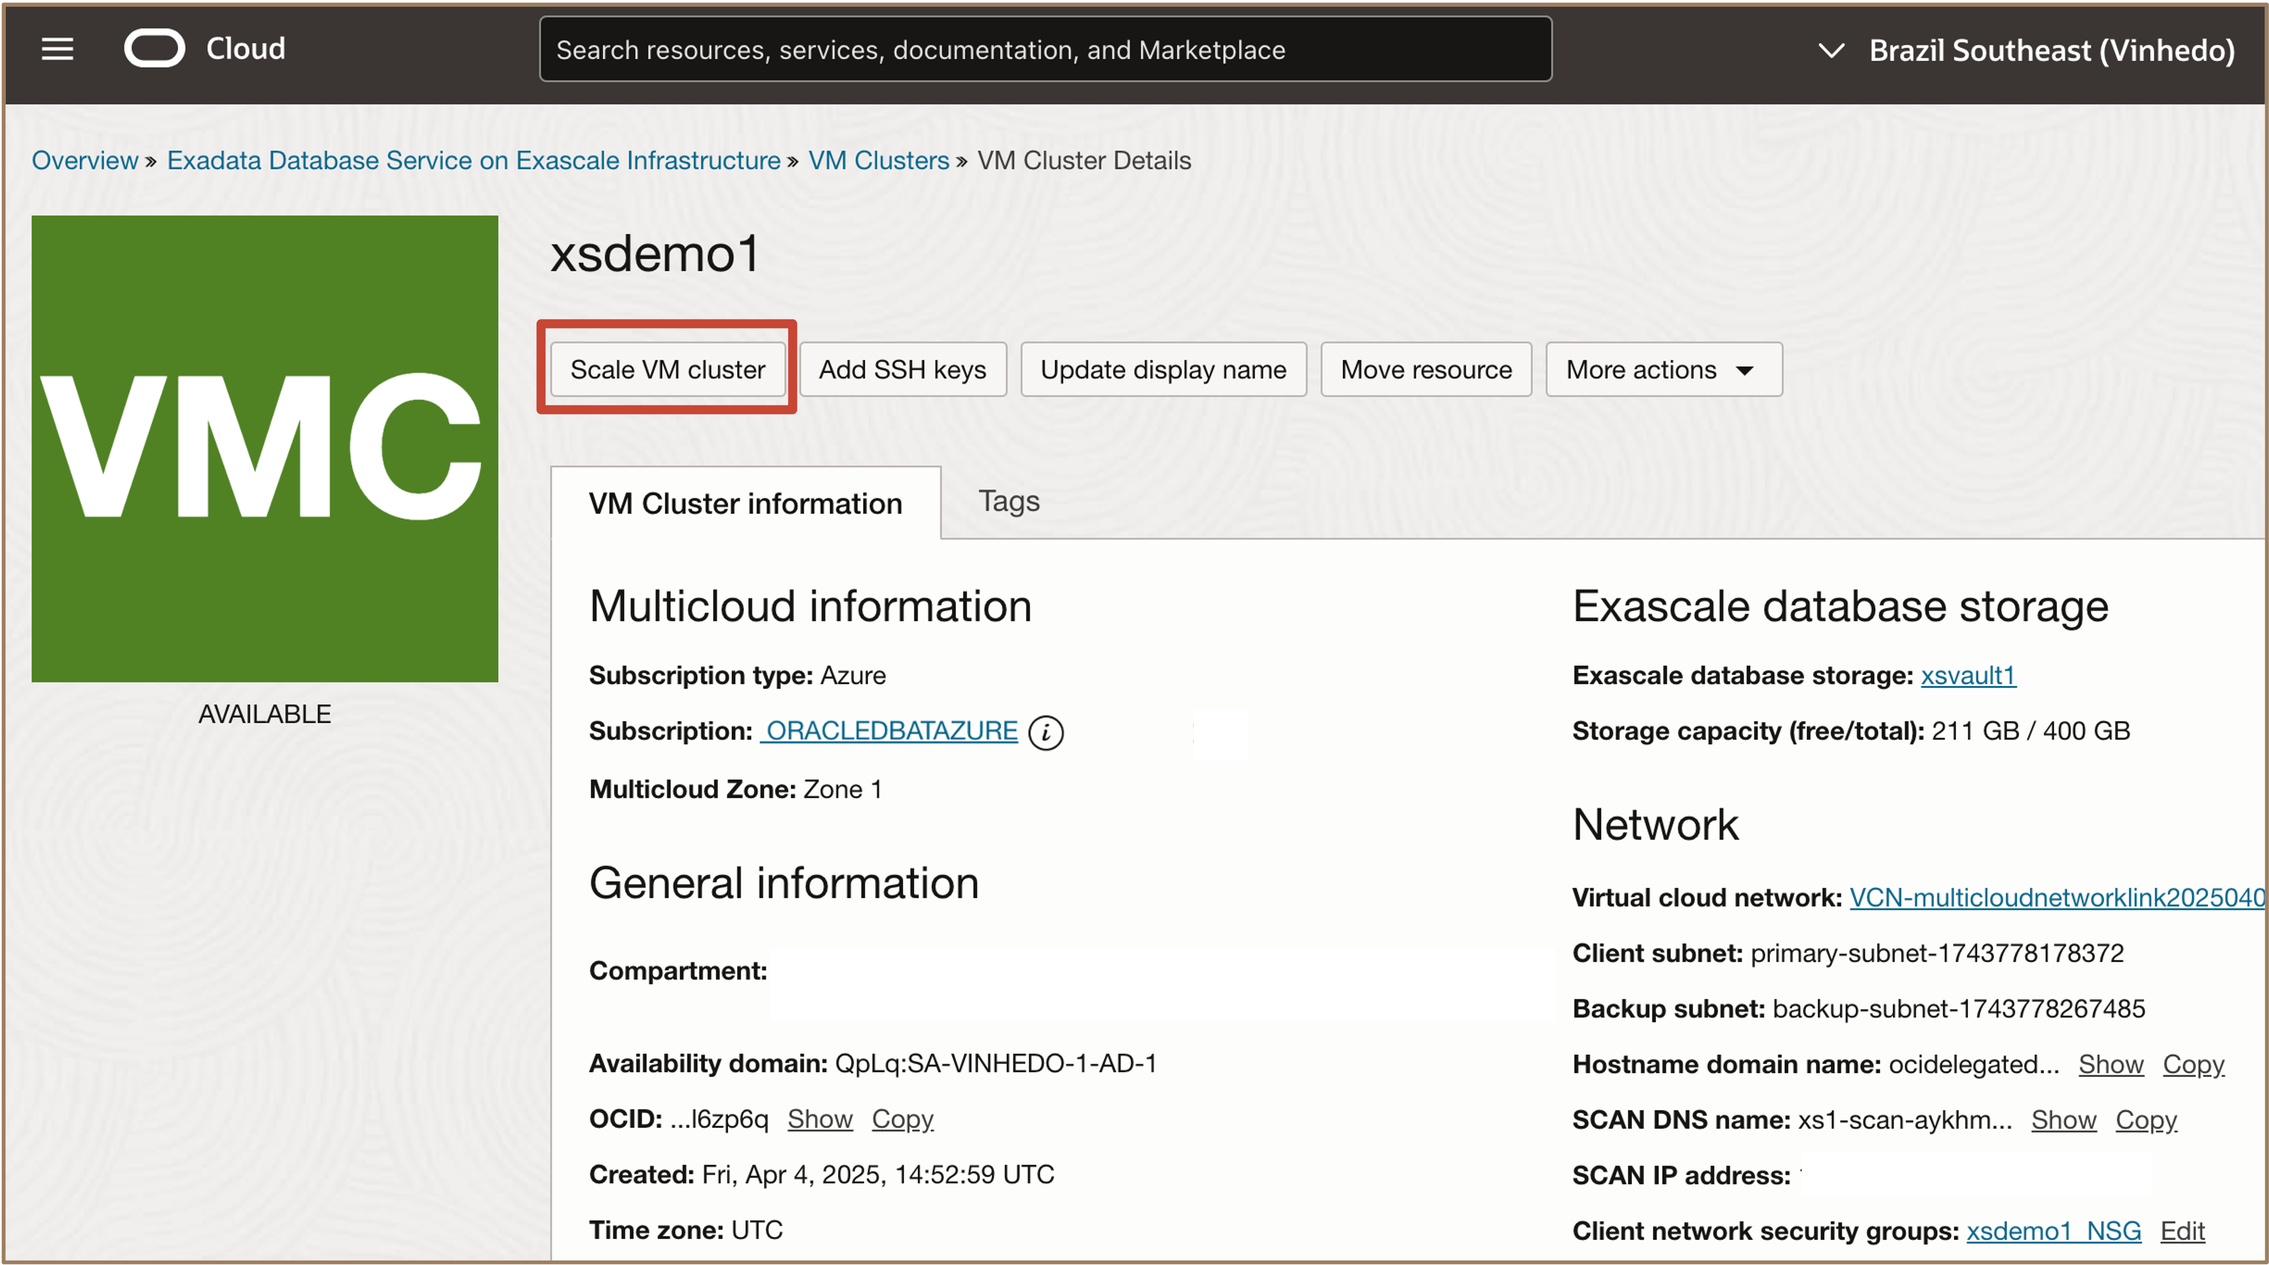
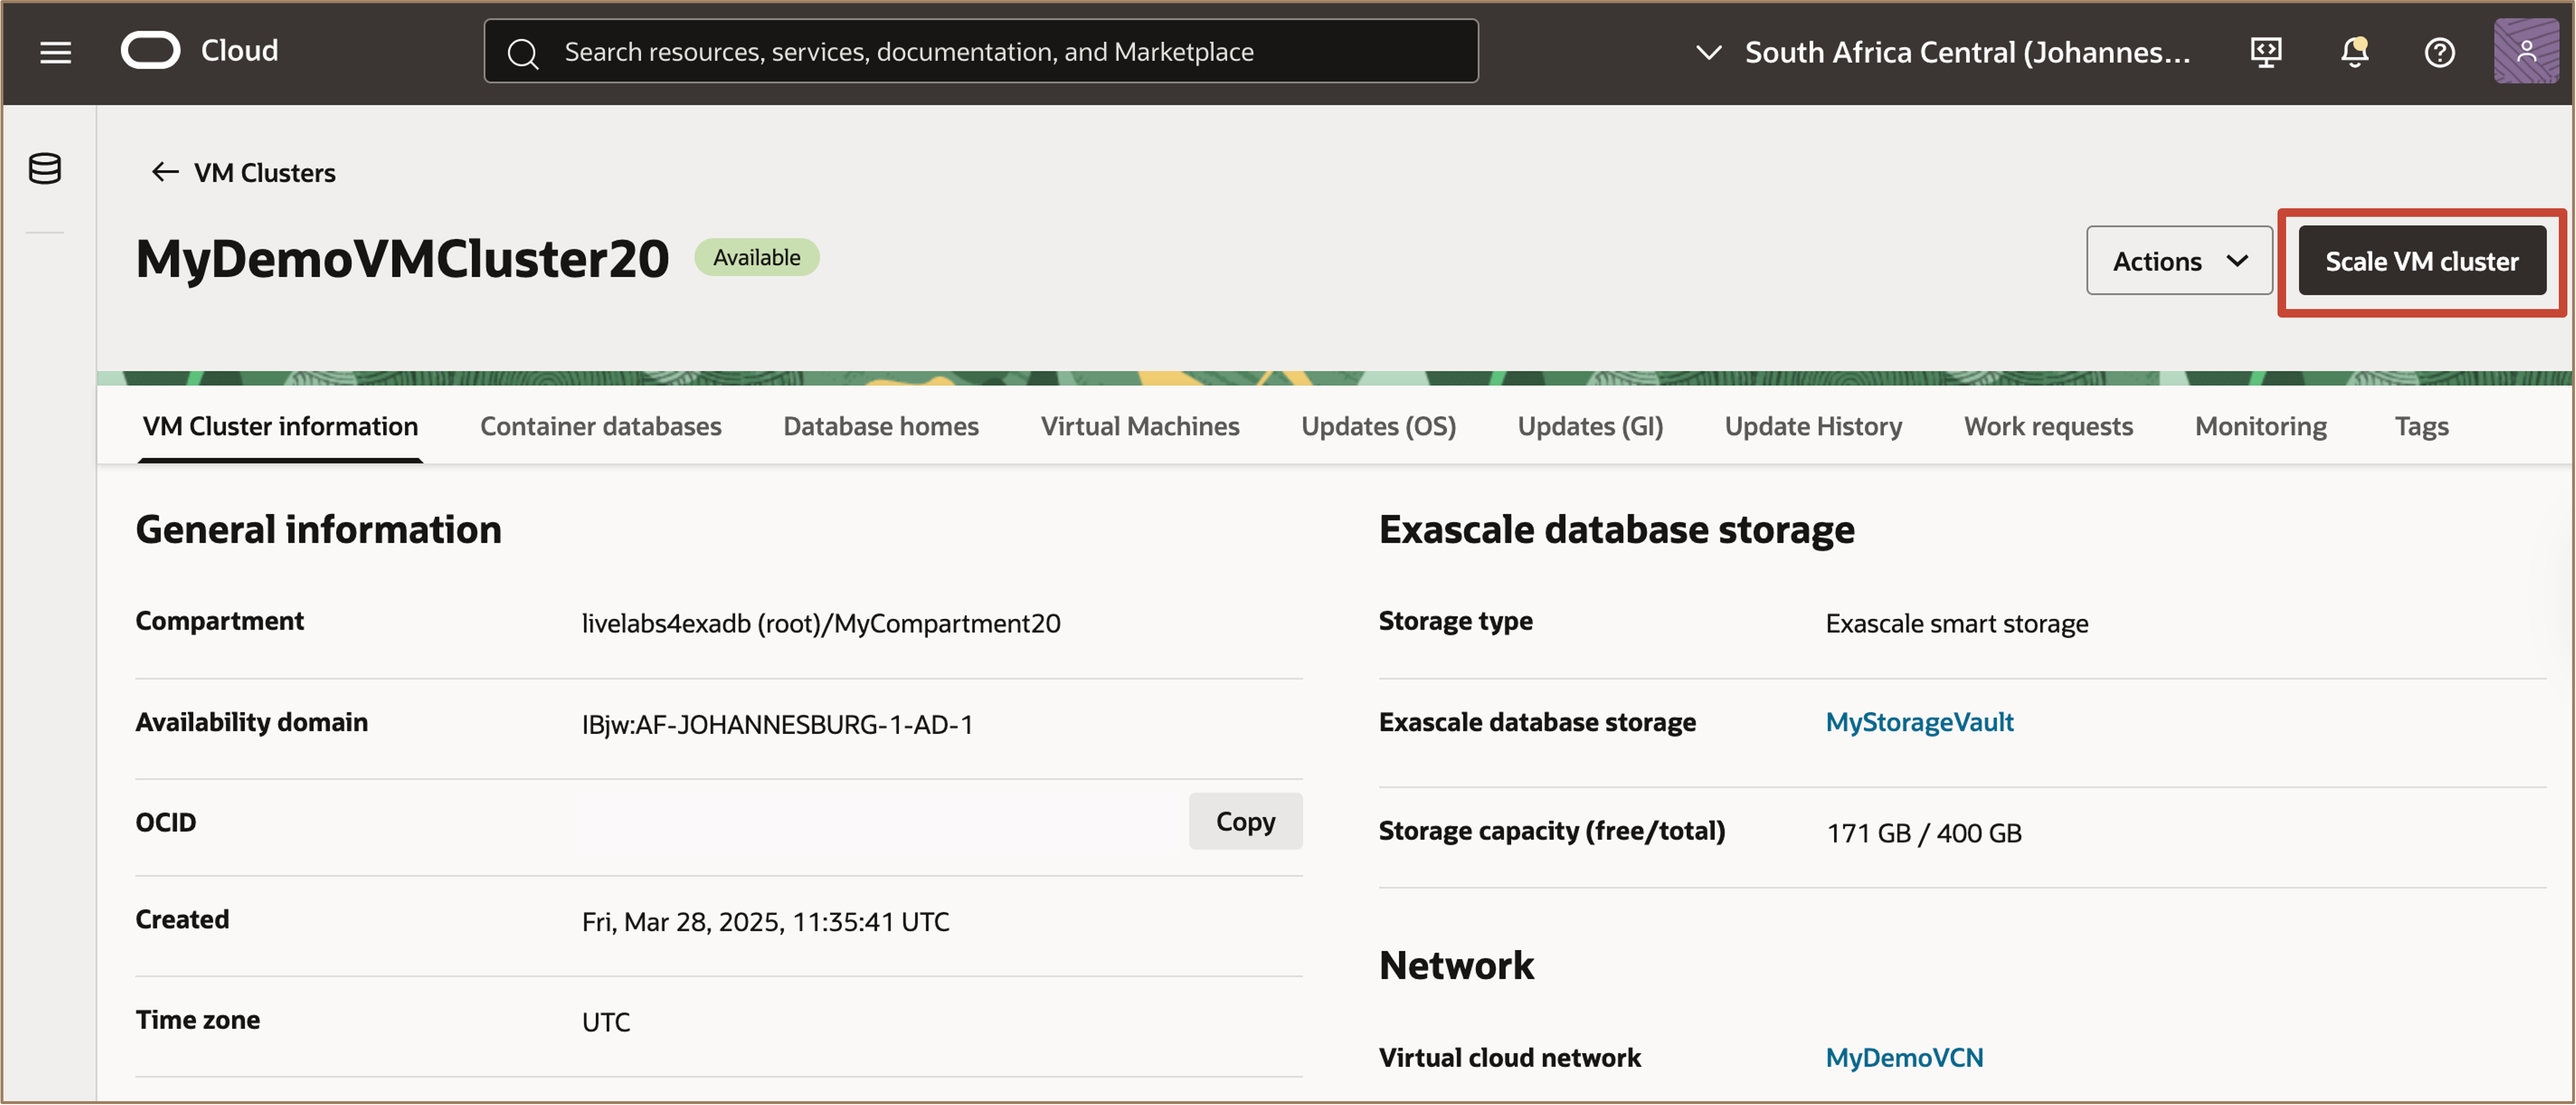
added new screens for notifications & events lab
added new screens for notifications & events lab

diff --git a/exadata-database-service-xs-deploy-high-perf-gen-ai-apps/configure-notifications-for-exascale-ecpu/configure-notifications-for-exascale-ecpu.md b/exadata-database-service-xs-deploy-high-perf-gen-ai-apps/configure-notifications-for-exascale-ecpu/configure-notifications-for-exascale-ecpu.md
@@ -158,18 +158,22 @@ This lab requires completion of the following:
    
    ![Navigate to the VM Cluster page](./images/select-vm-cluster.png "Navigate to the VM Cluster page")
    
-3. In the VM Cluster Details page, Click **Scale VM Cluster**. 
+3. In the **VM Cluster information** tab under **Resource allocation**, review the current VM Cluster resource allocation.     
    
-   ![Scale VM Cluster](./images/scale-vmcluster.png "Scale VM Cluster")
+   ![Scale VM Cluster](./images/vmcluster-information.png "Scale VM Cluster")
 
    ![View Enabled ECPU](./images/current-ecpu.png "View Enabled ECPU")
+
+4. Click **Scale VM Cluster**.
+   
+   ![Scale VM Cluster](./images/scale-vmcluster.png "Scale VM Cluster")
 
    Scale Up the number of ***ECPUs enabled per VM*** from ***8 ECPU*** to ***12 ECPU***
 
    ![Scale Up ECPU](./images/scale-ecpu.png "Scale Up ECPU")
    
       
-4. Click **Save Changes**
+   Click **Scale**
    
    >**Note:** ECPU scaling activities are done online with no downtime. Once the scale up operation is complete, the VM Cluster status changes from ***Updating*** to ***Available***.
 
